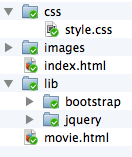
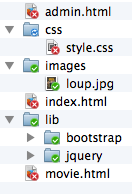
Admin for my movies project

diff --git a/projects/mymovies-static.md b/projects/mymovies-static.md
@@ -11,8 +11,9 @@ Deux pages du site doivent être réalisées :
 
 * La page d'accueil qui affiche la liste des films.
 * La page qui présente les détails sur un film ainsi qu'une image et un bouton d'édition (non fonctionnel). Cette page est accessible un cliquant sur le titre d'un des films sur la page d'accueil.
+* La page d'administration qui affiche la liste de tous les films sous forme tabulaire. Cette page est accessible un cliquant sur le bouton **Administration** de la barre de navigation.
 
-Le site dispose d'une barre de navigation avec un menu déroulant. La seule fonctionnalité opérationnelle de cette barre est le retour à la page d'accueil. Un pied de page (*footer*) indique la nom du créateur du site.
+Le site dispose d'une barre de navigation avec un menu déroulant. Le clic sur le nom du site déclenche le retour à la page d'accueil. Un pied de page (*footer*) indique la nom du créateur du site.
 
 Les données du site (les films) sont choisies librement, avec un minimum de trois films affichés.
 
@@ -38,4 +39,7 @@ Les images ci-dessous fournissent un exemple de réalisation du projet. La mise 
 {:.centered}
 
 ![](../assets/mymovies/mymovies3.png)
+{:.centered}
+
+![](../assets/mymovies/mymovies4.png)
 {:.centered}
